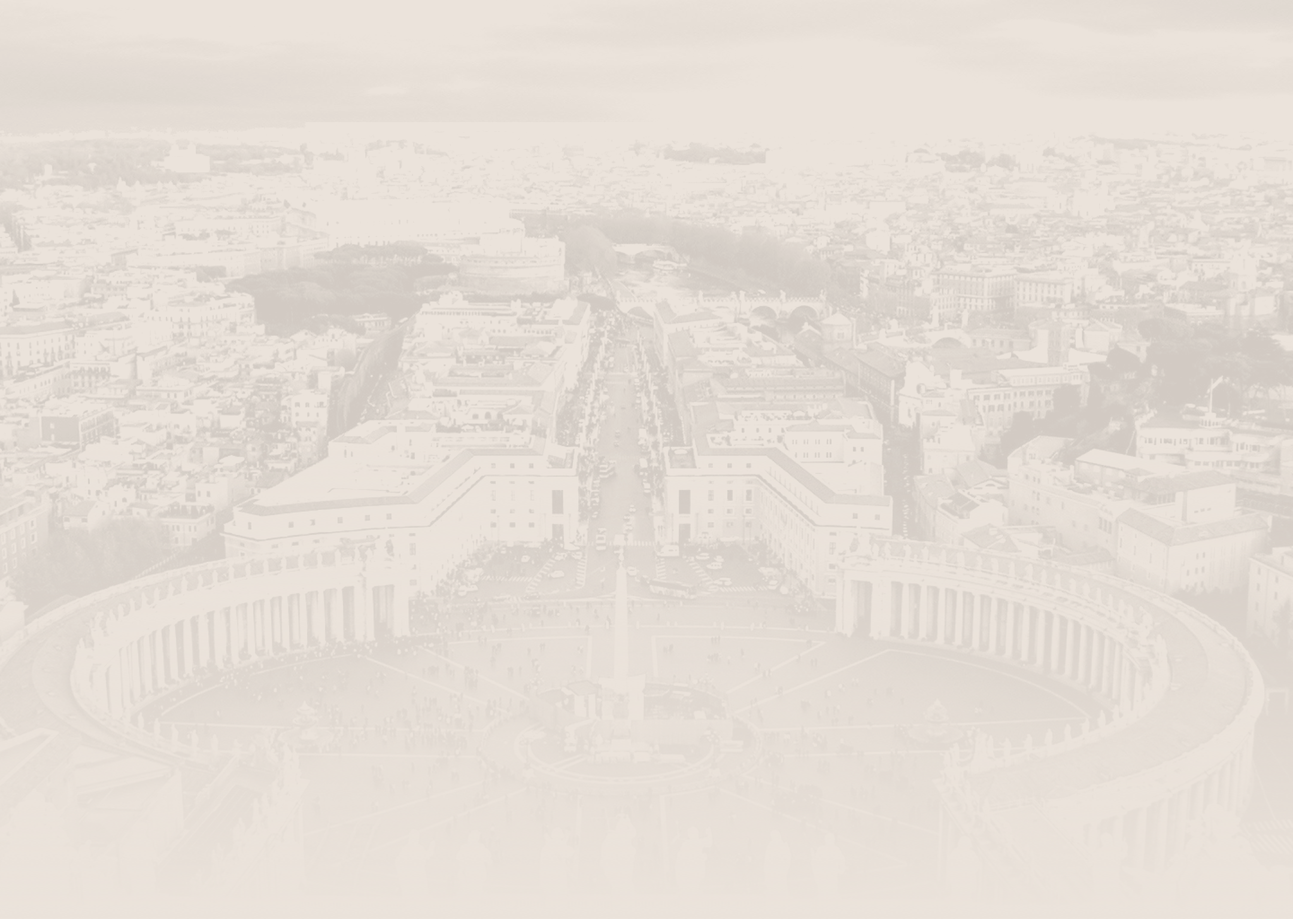
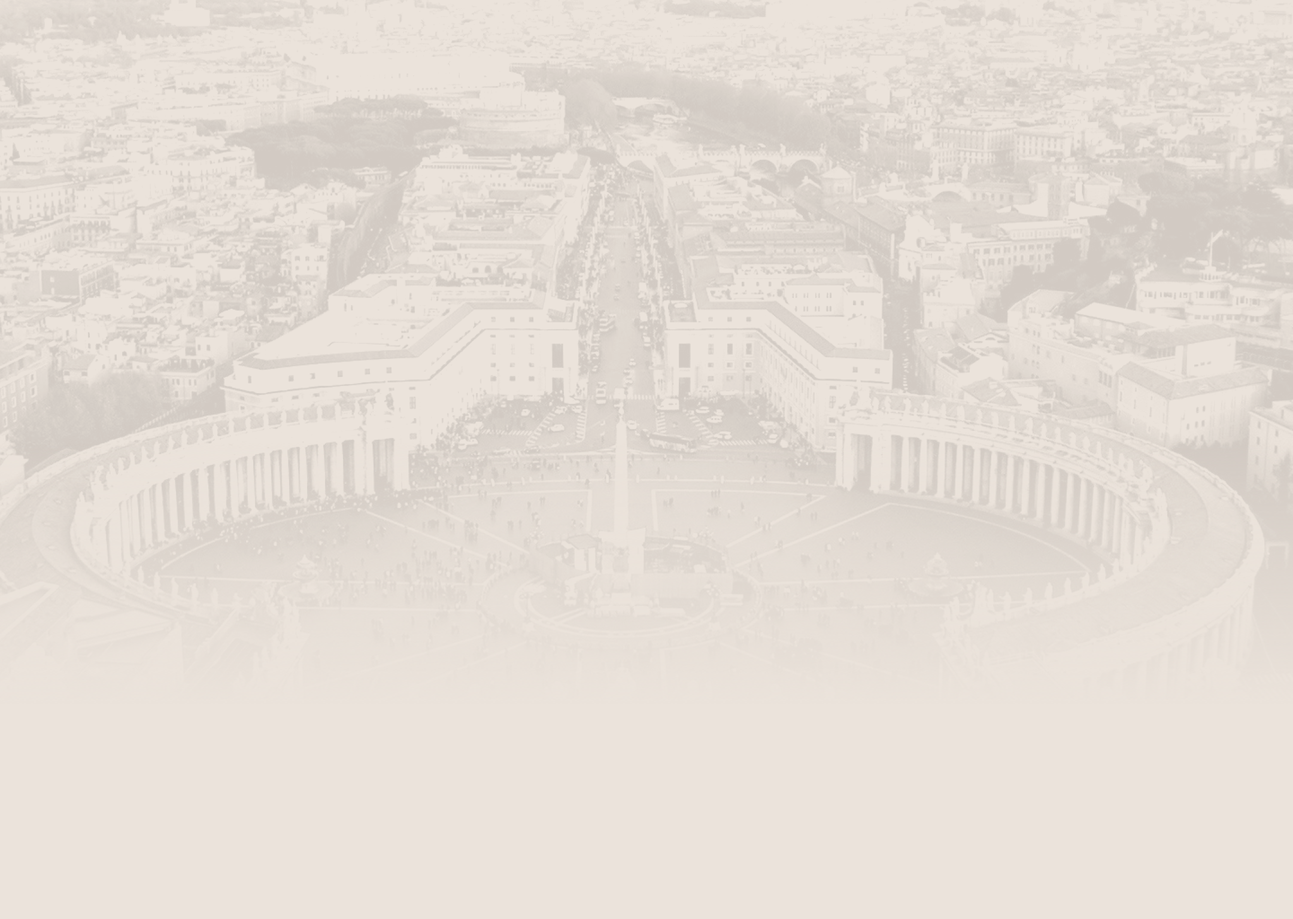
style about and far page

diff --git a/css/style.min.css b/css/style.min.css
@@ -1,3 +1,1 @@
-@import url("https://fonts.googleapis.com/css?family=Source+Sans+Pro:400,600,700");@import url("foundation.min.css");html{font-size:14px}body{font-family:"Source Sans Pro", sans-serif;font-size:100%;font-weight:400}p{margin:0px}section{display:block;clear:both;width:100%;float:left;position:relative}h1{font-size:3rem;font-family:"Georgia", serif;margin:0;font-weight:normal;line-height:1.3em}h2{font-family:"Source Sans Pro", sans-serif;font-size:2.5em;font-weight:700;line-height:1.3em;margin:0}h3{font-family:"Georgia", serif;font-size:1.5rem;font-weight:normal;margin:0;line-height:1.2em}h4{font-family:"Source Sans Pro", sans-serif;font-size:1.8rem;font-weight:400;margin:0;line-height:1.2em}h5{font-family:"Source Sans Pro", sans-serif;font-size:1.5rem;font-weight:400;margin:0;line-height:1.3em}h5 span{font-weight:600}span{font-weight:600}.direction-desktop,.direction-mobile{font-family:"Source Sans Pro", sans-serif;font-size:1.2rem;font-weight:400;margin:1rem 0 0 0;color:#353535}.direction-mobile{display:none}.row{max-width:95%;margin:auto}a{cursor:pointer}.btn{padding:.5em 1.3em;background-color:white;border-radius:0;display:inline-block;color:black;text-decoration:none;font-family:"Source Sans Pro", sans-serif;font-size:1.3rem;transition:all .3s ease}.btn span{margin-right:10px}.btn:hover{color:white}.btn:hover span{color:white}.btn.red span{color:#B3282D}.btn.red:hover{background-color:#B3282D}.btn.red:hover span{color:white}.btn.blue span{color:#00AEEF}.btn.blue:hover{background-color:#00AEEF}.btn.blue:hover span{color:white}hr{width:15%;border-color:#B3282D;margin-left:0px}.reveal .controls{display:none !important}.nav{position:absolute;z-index:50;width:100%;padding:2rem 2rem 0 2rem}.nav .logo{display:inline-block}.nav .logo img{max-width:60px}.nav .menu{display:inline-block;float:right}.nav .menu .about,.nav .menu .faqs,.nav .menu .apply-now{display:inline-block;font-family:"Source Sans Pro", sans-serif;font-weight:600;font-size:1.2rem;color:#353535;text-decoration:none;margin-right:30px;transition:color .3s ease}.nav .menu .about:hover,.nav .menu .faqs:hover,.nav .menu .apply-now:hover{color:#B3282D}.nav .menu .apply-now{display:none}.nav .menu .social{display:inline-block}.nav .menu .social a{background-color:white;padding:8px 10px;border-radius:50px;color:#353535;margin-right:5px;display:inline-block;transition:all .3s ease}.nav .menu .social a .fa-facebook{padding:0px 3px}.nav .menu .social a .fa-instagram{padding:0px 2px}.nav .menu .social a:hover{background-color:#0A7096;color:white}.nav .menu .btn{display:inline-block;background-color:#00AEEF;color:white;font-weight:600;margin-left:2rem}.nav .menu .btn:hover{background-color:#0A7096}.home{background-image:url(../img/pope.jpg);background-repeat:no-repeat;background-size:cover;height:800px}.home .row{padding-top:20%}.home h2{color:#353535}.home .inspire{color:#B3282D}.home .btn{margin-top:20px}.home .direction{margin-top:2rem}.focus-areas{height:800px}.focus-areas h1{color:#B3282D}.focus-areas .stat-tabs-wrapper{width:100%;float:left;overflow:hidden;display:block}.focus-areas .stat-tab-question{width:40%;float:right;padding:23rem 3rem 0 3rem;background-color:rgba(235,227,219,0.85);background-image:url(../img/corner-icon.png);background-position:bottom right;background-repeat:no-repeat;background-size:20%;min-height:800px}.focus-areas .label{font-size:18px;font-family:"Source Sans Pro", sans-serif;font-weight:600;text-transform:uppercase;color:#5A5A5A}.focus-areas .label span{color:#B3282D}.focus-areas .btn{display:inline-block;margin:2rem 0px 1rem 0}.focus-areas .stat-tabs-nav{position:absolute;top:16%;left:60%;margin-left:50px;z-index:1000000}.focus-areas .stat-tabs-nav .nav-row div{display:inline-block;margin-right:10px;width:4rem;height:4rem;background-color:rgba(255,255,255,0.8);border-radius:100px;background-size:55%;background-repeat:no-repeat;background-position:center;transition:all .3s ease}.focus-areas .stat-tabs-nav .nav-row div a{display:block;height:100%;width:100%}.focus-areas .stat-tabs-nav .nav-row div.active{background-color:white;border:3px solid #B3282D}.focus-areas #energy{background-image:url(../img/icon-energy.png)}.focus-areas #food{background-image:url(../img/icon-food.png)}.focus-areas #water{background-image:url(../img/icon-water.png)}.focus-areas #city{background-image:url(../img/icon-city.png)}.focus-areas #employment{background-image:url(../img/icon-employment.png)}.focus-areas #conservation{background-image:url(../img/icon-conservation.png)}.focus-areas #finance{background-image:url(../img/icon-finance.png)}.focus-areas .stat-tab{display:none;width:100%;height:100%;min-height:800px;overflow:hidden;float:left;background-size:cover;background-repeat:no-repeat}.focus-areas .stat-tab.active{display:block}.focus-areas .navigate-up,.focus-areas .navigate-down{display:none}.focus-areas .stat-tab-facts{position:absolute;top:40%;width:60%}.focus-areas .stat-tab-facts p{text-align:center;margin:auto;font-size:2rem;font-family:"Georgia", serif;font-weight:normal;line-height:1.3em;color:white}.focus-areas .stat-tab-facts p span{font-family:"Source Sans Pro", sans-serif;font-size:1.2rem;color:white;font-weight:600}.focus-areas #stat-tab-energy{background-image:url(../img/bg-energy.jpg)}.focus-areas #stat-tab-food{background-image:url(../img/bg-food.jpg)}.focus-areas #stat-tab-water{background-image:url(../img/bg-water.jpg)}.focus-areas #stat-tab-city{background-image:url(../img/bg-city.jpg)}.focus-areas #stat-tab-employment{background-image:url(../img/bg-employment.jpg)}.focus-areas #stat-tab-conservation{background-image:url(../img/bg-conservation.jpg)}.focus-areas #stat-tab-finance{background-image:url(../img/bg-finance.jpg)}.map{background-image:url(../img/bg-map.png);background-size:cover;background-repeat:no-repeat;height:800px}.map .row{padding-top:8rem}.map .map-intro-mobile{display:none}.map h5{font-weight:600;color:#B3282D}.map #journey-map{width:1024px;height:500px;margin:-130px auto 0 auto;display:inline-block}.map #journey-map text{color:#353535;font-weight:600 !important;display:block;font-size:1.3rem !important}.map #journey-map-mobile{display:none}.map .process-box{background-color:rgba(255,255,255,0.7);padding:1.2rem}.map .process-box div{display:none}.map .process-box div.active{display:block}.map .btn{margin-top:1rem}.network{background-image:url(../img/bg-network.png);background-size:cover;background-repeat:no-repeat;height:800px}.network .row{padding-top:8rem}.network h5{font-weight:600;color:#B3282D}.network hr{border:0px}.network h3{margin-top:1rem}.network .btn{margin-top:20px}.network .network-box{background-color:rgba(255,255,255,0.7);padding:2.5rem;margin-top:1.5rem}.network .network-graphic{padding-top:5rem;display:block;width:90%;margin:auto}.apply{background-image:url(../img/bg-apply.png);background-size:cover;background-repeat:no-repeat;text-align:center;height:800px}.apply .row{text-align:center;padding-top:10rem}.apply h1{color:white;margin:.3em 0}.apply .quote{font-family:"Georgia", serif;font-size:1.2rem;color:black;font-weight:bold;font-style:italic}.apply .btn{display:inline-block;margin:1rem;padding:.7rem 2rem;color:#B3282D;font-weight:600;font-size:1.4rem;text-transform:uppercase}.apply .btn:hover{color:white}.apply .btn:hover span{color:white}.apply hr{width:5%;margin:1rem auto;border-bottom:1px solid #B3282D}.apply h3{font-size:1.5rem}.apply .subscribe-box{width:70%;margin:2rem auto;padding:2rem;background-color:rgba(255,255,255,0.3)}.apply #mc_embed_signup{margin-top:20px}.apply #mc_embed_signup .mc-field-group{width:50%}.apply #mc_embed_signup .mc-field-group,.apply #mc_embed_signup .clear{display:inline-block;vertical-align:top}.apply #mc_embed_signup input{width:100%;display:inline-block;height:40px;padding-left:15px;border:none;outline:none;background-color:rgba(255,255,255,0.6);font-family:"Source Sans Pro"}.apply #mc_embed_signup input.btn{background-color:white;margin-top:0px !important;padding:10px 25px;font-family:"Source Sans Pro";cursor:pointer;font-size:1.2rem;color:black}.apply #mc_embed_signup input.btn:hover{background-color:#0A7096;color:white}.apply #mc_embed_signup div.mce_inline_error{background-color:transparent;color:black;text-align:left;font-family:"Source Sans Pro";font-weight:normal}#about hr{display:none}#about .about-canvas{background-image:url("../img/bg-about.png");background-size:cover;background-position:center;position:absolute;z-index:100;width:100%;height:100%}#about .about-canvas .row{max-width:100%;padding:2rem}#about .close{float:right}#about .close svg{width:40px;height:40px}#about .content{width:90%;margin:auto;color:white}#about .content .about{padding-right:80px}#about .content .team{padding-left:80px}#about .content h5{font-size:1.1rem;font-weight:600;color:black;margin-top:.5rem}#about .content a{color:white;text-decoration:none;font-size:1.2rem}#about .content ul{margin:0px;list-style-type:none;padding-left:0px}#about .content li{margin-bottom:5px}#about .content li p.title{color:black;line-height:1em}#about .content li span{font-weight:600}#about .content.row{padding:0}#faqs .faqs-canvas{background-image:url("../img/bg-faqs.png");background-size:cover;background-position:center;position:absolute;z-index:100;width:100%;height:100%}#faqs .faqs-canvas .row{max-width:100%;padding:2rem}#faqs .faqs-canvas .close{float:right}#faqs .faqs-canvas .close svg{width:40px;height:40px}#faqs .faqs-canvas .content ol{padding-left:18px}#faqs .faqs-canvas .content li{margin-bottom:20px}#faqs .faqs-canvas .content .one{padding-right:80px}#faqs .faqs-canvas .content .two{padding-left:80px}#faqs .faqs-canvas .content.row{padding:0}#journey-map-mobile{margin:0 auto;display:none;width:100%;height:175px}@media (max-width: 599px){.direction-mobile{display:block}.direction-desktop{display:none}html{font-size:12px}h1{font-size:1.5rem;line-height:1.2em}h2{font-size:1.7rem}h3{font-size:1.2rem}h4{font-size:1.5rem}h5{line-height:1.2em}.nav{padding-top:1rem}.nav .logo img{max-width:40px;max-height:40px}.nav .menu{padding-top:1rem}.nav .menu .btn{display:none}.nav .menu .apply-now{display:inline-block;color:#B3282D;font-weight:600}.nav .menu .apply-now,.nav .menu .about,.nav .menu .faqs{font-size:1rem;margin-right:1.3rem}.nav .menu .social{margin-right:0px}.nav .menu .social a{background-color:transparent;padding:0 0 .7rem 0}.nav .menu .social a:hover{color:#B3282D;background-color:transparent}.home{background-position:80%}.home .row{padding-top:65%}.focus-areas h1{font-size:2.4rem}.focus-areas .stat-tab-question{width:100%;padding:16rem 3rem 0 3rem}.focus-areas .stat-tab-facts{display:none}.focus-areas .stat-tabs-nav{left:0;margin-left:3rem}.map .row{padding-top:6rem;max-width:95%}.map h3{margin-bottom:.5rem}.map .map-intro{display:none}.map #journey-map{display:none}.map #journey-map-mobile{display:block}.map #journey-map-mobile text{font-size:1rem !important;font-weight:600 !important}.network .row{padding-top:6rem;max-width:95%}.network .network-graphic{display:none}.network h3{margin-top:.2rem}.network h5{font-size:1.3rem}.network .network-box{padding:.5rem}.apply .row{padding-top:5rem}.apply .quote{display:none}.apply h5{font-weight:600;font-size:1.1rem}.apply .subscribe-box{width:95%;padding:1rem}.apply .subscribe-box h5{font-size:1.1rem}.apply .to-faq,.apply .app-deadline{display:block}.apply .divider{display:none}.apply #mc_embed_signup{margin-top:10px}.apply #mc_embed_signup .mc-field-group{width:100%}.apply #mc_embed_signup .clear{width:100%;display:block;margin-top:.5rem}.apply #mc_embed_signup .clear input{text-align:left;margin:0;padding:0 0 0 15px}#about hr{display:block;border-bottom:1px solid white;border-top:0px;width:100%;margin:2rem 0}#about h1{font-size:1.8rem;margin-bottom:5px}#about .about-canvas .row{padding:0}#about .about-canvas .close{margin-top:15px}#about .about-canvas .close svg{width:30px;height:30px}#about .about-canvas .content{padding:0px;height:32rem;overflow:scroll}#about .about-canvas .content .about,#about .about-canvas .content .team{padding:0px}#faqs h1{font-size:1.8rem;margin-bottom:5px}#faqs .faqs-canvas .row{padding:0}#faqs .faqs-canvas .close{margin-top:15px}#faqs .faqs-canvas .close svg{width:30px;height:30px}#faqs .faqs-canvas .content{padding:0px;height:32rem;overflow:scroll}#faqs .faqs-canvas .content .one,#faqs .faqs-canvas .content .two{padding:0px}#faqs .faqs-canvas .content ol{padding-left:30px}}@media (min-width: 321px) and (max-width: 599px){html{font-size:14px}.home h1{font-size:1.7rem}.map h2{margin-bottom:1rem}.map .process-box{margin-top:1rem}.network .network-box{padding:1rem}#about .about-canvas .content,#faqs .faqs-canvas .content{height:36rem;margin-top:1rem}}
-
-/*# sourceMappingURL=style.min.css.map */
+@import url("https://fonts.googleapis.com/css?family=Source+Sans+Pro:400,600,700");@import url("foundation.min.css");html{font-size:14px}body{font-family:"Source Sans Pro", sans-serif;font-size:100%;font-weight:400}p{margin:0px}section{display:block;clear:both;width:100%;float:left;position:relative}h1{font-size:3rem;font-family:"Georgia", serif;margin:0;font-weight:normal;line-height:1.3em}h2{font-family:"Source Sans Pro", sans-serif;font-size:2.5em;font-weight:700;line-height:1.3em;margin:0}h3{font-family:"Georgia", serif;font-size:1.5rem;font-weight:normal;margin:0;line-height:1.2em}h4{font-family:"Source Sans Pro", sans-serif;font-size:1.8rem;font-weight:400;margin:0;line-height:1.2em}h5{font-family:"Source Sans Pro", sans-serif;font-size:1.5rem;font-weight:400;margin:0;line-height:1.3em}h5 span{font-weight:600}span{font-weight:600}.direction-desktop,.direction-mobile{font-family:"Source Sans Pro", sans-serif;font-size:1.2rem;font-weight:400;margin:1rem 0 0 0;color:#353535}.direction-mobile{display:none}.row{max-width:95%;margin:auto}a{cursor:pointer}.btn{padding:.5em 1.3em;background-color:white;border-radius:0;display:inline-block;color:black;text-decoration:none;font-family:"Source Sans Pro", sans-serif;font-size:1.3rem;transition:all .3s ease}.btn span{margin-right:10px}.btn:hover{color:white}.btn:hover span{color:white}.btn.red span{color:#B3282D}.btn.red:hover{background-color:#B3282D}.btn.red:hover span{color:white}.btn.blue span{color:#00AEEF}.btn.blue:hover{background-color:#00AEEF}.btn.blue:hover span{color:white}hr{width:15%;border-color:#B3282D;margin-left:0px}.reveal .controls{display:none !important}.nav{position:absolute;z-index:50;width:100%;padding:2rem 2rem 0 2rem}.nav .logo{display:inline-block}.nav .logo img{max-width:60px}.nav .menu{display:inline-block;float:right}.nav .menu .about,.nav .menu .faqs,.nav .menu .apply-now,.nav .menu .home-nav{display:inline-block;font-family:"Source Sans Pro", sans-serif;font-weight:600;font-size:1.2rem;color:#353535;text-decoration:none;margin-right:30px;transition:color .3s ease}.nav .menu .about:hover,.nav .menu .faqs:hover,.nav .menu .apply-now:hover,.nav .menu .home-nav:hover{color:#B3282D}.nav .menu .apply-now{display:none}.nav .menu .social{display:inline-block}.nav .menu .social a{background-color:white;padding:8px 10px;border-radius:50px;color:#353535;margin-right:5px;display:inline-block;transition:all .3s ease}.nav .menu .social a .fa-facebook{padding:0px 3px}.nav .menu .social a .fa-instagram{padding:0px 2px}.nav .menu .social a:hover{background-color:#0A7096;color:white}.nav .menu .btn{display:inline-block;background-color:#00AEEF;color:white;font-weight:600;margin-left:2rem}.nav .menu .btn:hover{background-color:#0A7096}.home{background-image:url(../img/pope.jpg);background-repeat:no-repeat;background-size:cover;height:800px}.home .row{padding-top:20%}.home h2{color:#353535}.home .inspire{color:#B3282D}.home .btn{margin-top:20px}.home .direction{margin-top:2rem}.focus-areas{height:800px}.focus-areas h1{color:#B3282D}.focus-areas .stat-tabs-wrapper{width:100%;float:left;overflow:hidden;display:block}.focus-areas .stat-tab-question{width:40%;float:right;padding:23rem 3rem 0 3rem;background-color:rgba(235,227,219,0.85);background-image:url(../img/corner-icon.png);background-position:bottom right;background-repeat:no-repeat;background-size:20%;min-height:800px}.focus-areas .label{font-size:18px;font-family:"Source Sans Pro", sans-serif;font-weight:600;text-transform:uppercase;color:#5A5A5A}.focus-areas .label span{color:#B3282D}.focus-areas .btn{display:inline-block;margin:2rem 0px 1rem 0}.focus-areas .stat-tabs-nav{position:absolute;top:16%;left:60%;margin-left:50px;z-index:1000000}.focus-areas .stat-tabs-nav .nav-row div{display:inline-block;margin-right:10px;width:4rem;height:4rem;background-color:rgba(255,255,255,0.8);border-radius:100px;background-size:55%;background-repeat:no-repeat;background-position:center;transition:all .3s ease}.focus-areas .stat-tabs-nav .nav-row div a{display:block;height:100%;width:100%}.focus-areas .stat-tabs-nav .nav-row div.active{background-color:white;border:3px solid #B3282D}.focus-areas #energy{background-image:url(../img/icon-energy.png)}.focus-areas #food{background-image:url(../img/icon-food.png)}.focus-areas #water{background-image:url(../img/icon-water.png)}.focus-areas #city{background-image:url(../img/icon-city.png)}.focus-areas #employment{background-image:url(../img/icon-employment.png)}.focus-areas #conservation{background-image:url(../img/icon-conservation.png)}.focus-areas #finance{background-image:url(../img/icon-finance.png)}.focus-areas .stat-tab{display:none;width:100%;height:100%;min-height:800px;overflow:hidden;float:left;background-size:cover;background-repeat:no-repeat}.focus-areas .stat-tab.active{display:block}.focus-areas .navigate-up,.focus-areas .navigate-down{display:none}.focus-areas .stat-tab-facts{position:absolute;top:40%;width:60%}.focus-areas .stat-tab-facts p{text-align:center;margin:auto;font-size:2rem;font-family:"Georgia", serif;font-weight:normal;line-height:1.3em;color:white}.focus-areas .stat-tab-facts p span{font-family:"Source Sans Pro", sans-serif;font-size:1.2rem;color:white;font-weight:600}.focus-areas #stat-tab-energy{background-image:url(../img/bg-energy.jpg)}.focus-areas #stat-tab-food{background-image:url(../img/bg-food.jpg)}.focus-areas #stat-tab-water{background-image:url(../img/bg-water.jpg)}.focus-areas #stat-tab-city{background-image:url(../img/bg-city.jpg)}.focus-areas #stat-tab-employment{background-image:url(../img/bg-employment.jpg)}.focus-areas #stat-tab-conservation{background-image:url(../img/bg-conservation.jpg)}.focus-areas #stat-tab-finance{background-image:url(../img/bg-finance.jpg)}.map{background-image:url(../img/bg-map.png);background-size:cover;background-repeat:no-repeat;height:800px}.map .row{padding-top:8rem}.map .map-intro-mobile{display:none}.map h5{font-weight:600;color:#B3282D}.map #journey-map{width:1024px;height:500px;margin:-130px auto 0 auto;display:inline-block}.map #journey-map text{color:#353535;font-weight:600 !important;display:block;font-size:1.3rem !important}.map #journey-map-mobile{display:none}.map .process-box{background-color:rgba(255,255,255,0.7);padding:1.2rem}.map .process-box div{display:none}.map .process-box div.active{display:block}.map .btn{margin-top:1rem}.network{background-image:url(../img/bg-network.png);background-size:cover;background-repeat:no-repeat;height:800px}.network .row{padding-top:3rem}.network h5{font-weight:600;color:#B3282D}.network hr{border:0px}.network h3{margin-top:1rem}.network .btn{margin-top:20px}.network .network-box{background-color:rgba(255,255,255,0.7);padding:2.5rem;margin-top:1.5rem}.network .network-graphic{padding-top:5rem;display:block;width:90%;margin:auto}.apply{background-image:url(../img/bg-apply.png);background-size:cover;background-repeat:no-repeat;text-align:center;height:800px}.apply .row{text-align:center;padding-top:10rem}.apply h1{color:white;margin:.3em 0}.apply .quote{font-family:"Georgia", serif;font-size:1.2rem;color:black;font-weight:bold;font-style:italic}.apply .btn{display:inline-block;margin:1rem;padding:.7rem 2rem;color:#B3282D;font-weight:600;font-size:1.4rem;text-transform:uppercase}.apply .btn:hover{color:white}.apply .btn:hover span{color:white}.apply hr{width:5%;margin:1rem auto;border-bottom:1px solid #B3282D}.apply h3{font-size:1.5rem}.apply .subscribe-box{width:70%;margin:2rem auto;padding:2rem;background-color:rgba(255,255,255,0.3)}.apply #mc_embed_signup{margin-top:20px}.apply #mc_embed_signup .mc-field-group{width:50%}.apply #mc_embed_signup .mc-field-group,.apply #mc_embed_signup .clear{display:inline-block;vertical-align:top}.apply #mc_embed_signup input{width:100%;display:inline-block;height:40px;padding-left:15px;border:none;outline:none;background-color:rgba(255,255,255,0.6);font-family:"Source Sans Pro"}.apply #mc_embed_signup input.btn{background-color:white;margin-top:0px !important;padding:10px 25px;font-family:"Source Sans Pro";cursor:pointer;font-size:1.2rem;color:black}.apply #mc_embed_signup input.btn:hover{background-color:#0A7096;color:white}.apply #mc_embed_signup div.mce_inline_error{background-color:transparent;color:black;text-align:left;font-family:"Source Sans Pro";font-weight:normal}#about hr{display:none}#about .about-canvas{background-image:url("../img/bg-about.png");background-size:cover;background-position:center;position:absolute}#about .about-canvas .row{max-width:100%;padding:8rem 2rem}#about .close{float:right}#about .close svg{width:40px;height:40px}#about .content{width:90%;margin:auto;color:white}#about .content .about{padding-right:80px}#about .content .team{padding-left:80px}#about .content h5{font-size:1.1rem;font-weight:600;color:black;margin-top:.5rem}#about .content a{color:white;text-decoration:none;font-size:1.2rem}#about .content ul{margin:0px;list-style-type:none;padding-left:0px}#about .content li{margin-bottom:5px}#about .content li p.title{color:black;line-height:1em}#about .content li span{font-weight:600}#about .content.row{padding:0}#faqs .faqs-canvas{background-image:url("../img/bg-faqs.png");background-size:cover;background-position:center;position:absolute}#faqs .faqs-canvas .row{max-width:100%;padding:8rem 4em}#faqs .faqs-canvas .close{float:right}#faqs .faqs-canvas .close svg{width:40px;height:40px}#faqs .faqs-canvas .content ol{padding-left:18px}#faqs .faqs-canvas .content li{margin-bottom:20px}#faqs .faqs-canvas .content .one{padding-right:80px}#faqs .faqs-canvas .content .two{padding-left:80px}#faqs .faqs-canvas .content.row{padding:0}#journey-map-mobile{margin:0 auto;display:none;width:100%;height:175px}@media (max-width: 599px){.direction-mobile{display:block}.direction-desktop{display:none}html{font-size:12px}h1{font-size:1.5rem;line-height:1.2em}h2{font-size:1.7rem}h3{font-size:1.2rem}h4{font-size:1.5rem}h5{line-height:1.2em}.nav{padding-top:1rem}.nav .logo img{max-width:40px;max-height:40px}.nav .menu{padding-top:1rem}.nav .menu .btn{display:none}.nav .menu .apply-now{display:inline-block;color:#B3282D;font-weight:600}.nav .menu .apply-now,.nav .menu .about,.nav .menu .faqs{font-size:1rem;margin-right:1.3rem}.nav .menu .social{margin-right:0px}.nav .menu .social a{background-color:transparent;padding:0 0 .7rem 0}.nav .menu .social a:hover{color:#B3282D;background-color:transparent}.home{background-position:80%}.home .row{padding-top:65%}.focus-areas h1{font-size:2.4rem}.focus-areas .stat-tab-question{width:100%;padding:16rem 3rem 0 3rem}.focus-areas .stat-tab-facts{display:none}.focus-areas .stat-tabs-nav{left:0;margin-left:3rem}.map .row{padding-top:6rem;max-width:95%}.map h3{margin-bottom:.5rem}.map .map-intro{display:none}.map #journey-map{display:none}.map #journey-map-mobile{display:block}.map #journey-map-mobile text{font-size:1rem !important;font-weight:600 !important}.network .row{padding-top:6rem;max-width:95%}.network .network-graphic{display:none}.network h3{margin-top:.2rem}.network h5{font-size:1.3rem}.network .network-box{padding:.5rem}.apply .row{padding-top:5rem}.apply .quote{display:none}.apply h5{font-weight:600;font-size:1.1rem}.apply .subscribe-box{width:95%;padding:1rem}.apply .subscribe-box h5{font-size:1.1rem}.apply .to-faq,.apply .app-deadline{display:block}.apply .divider{display:none}.apply #mc_embed_signup{margin-top:10px}.apply #mc_embed_signup .mc-field-group{width:100%}.apply #mc_embed_signup .clear{width:100%;display:block;margin-top:.5rem}.apply #mc_embed_signup .clear input{text-align:left;margin:0;padding:0 0 0 15px}#about hr{display:block;border-bottom:1px solid white;border-top:0px;width:100%;margin:2rem 0}#about h1{font-size:1.8rem;margin-bottom:5px}#about .about-canvas .row{padding:0}#about .about-canvas .close{margin-top:15px}#about .about-canvas .close svg{width:30px;height:30px}#about .about-canvas .content{padding:0px;height:32rem;overflow:scroll}#about .about-canvas .content .about,#about .about-canvas .content .team{padding:0px}#faqs h1{font-size:1.8rem;margin-bottom:5px}#faqs .faqs-canvas .row{padding:0}#faqs .faqs-canvas .close{margin-top:15px}#faqs .faqs-canvas .close svg{width:30px;height:30px}#faqs .faqs-canvas .content{padding:0px;height:32rem;overflow:scroll}#faqs .faqs-canvas .content .one,#faqs .faqs-canvas .content .two{padding:0px}#faqs .faqs-canvas .content ol{padding-left:30px}}@media (min-width: 321px) and (max-width: 599px){html{font-size:14px}.home h1{font-size:1.7rem}.map h2{margin-bottom:1rem}.map .process-box{margin-top:1rem}.network .network-box{padding:1rem}#about .about-canvas .content,#faqs .faqs-canvas .content{height:36rem;margin-top:1rem}}

diff --git a/about.html b/about.html
@@ -32,6 +32,7 @@
         <img src="img/logo.png" />
       </div>
       <div class="menu">
+        <a class="home-nav" href="/">Home</a>
         <a class="about" href="/about">About</a>
         <a class="faqs" href="/faqs">FAQs</a>
         <div class="social">
@@ -45,20 +46,6 @@
 
     <div class="about-canvas">
       <div class="row">
-        <div class="small-12 column">
-          <a class="close" onclick="goBack()">
-            <svg viewbox="0 0 60 60" version="1.1">
-						    <g stroke="none" stroke-width="1" fill="none" fill-rule="evenodd" stroke-linecap="square">
-						        <g transform="translate(-1313.000000, -57.000000)" stroke="#FFFFFF" stroke-width="3">
-						            <g transform="translate(1343.154329, 87.154329) rotate(-315.000000) translate(-1343.154329, -87.154329) translate(1304.154329, 48.154329)">
-						                <path d="M39,0.5 L39,77.4220385"></path>
-						                <path d="M77.5,39 L0.577961545,39"></path>
-						            </g>
-						        </g>
-						    </g>
-						</svg>
-          </a>
-        </div>
         <div class="small-12 column">
           <div class="content row">
             <div class="small-12 medium-6 column about">

diff --git a/css/style.scss b/css/style.scss
@@ -171,7 +171,8 @@ hr {
     float: right;
     .about,
     .faqs,
-    .apply-now {
+    .apply-now,
+    .home-nav {
       display: inline-block;
       font-family: "Source Sans Pro", sans-serif;
       font-weight: 600;
@@ -447,7 +448,7 @@ hr {
   background-repeat: no-repeat;
   height:800px;
   .row {
-    padding-top: 8rem;
+    padding-top: 3rem;
   }
   h5 {
     font-weight: 600;
@@ -577,15 +578,12 @@ hr {
   .about-canvas {
     .row {
       max-width: 100%;
-      padding: 2rem;
+      padding: 8rem 2rem;
     }
     background-image: url("../img/bg-about.png");
     background-size: cover;
     background-position: center;
     position: absolute;
-    z-index: 100;
-    width: 100%;
-    height: 100%;
   }
   .close {
     float: right;
@@ -643,15 +641,12 @@ hr {
   .faqs-canvas {
     .row {
       max-width: 100%;
-      padding: 2rem;
+      padding: 8rem 4em;
     }
     background-image: url("../img/bg-faqs.png");
     background-size: cover;
     background-position: center;
     position: absolute;
-    z-index: 100;
-    width: 100%;
-    height: 100%;
     .close {
       float: right;
       svg {

diff --git a/faqs.html b/faqs.html
@@ -46,20 +46,6 @@
     <div class="faqs-canvas">
       <div class="row">
         <div class="small-12 column">
-          <a class="close" onclick="goBack()">
-            <svg viewbox="0 0 60 60" version="1.1">
-						    <g stroke="none" stroke-width="1" fill="none" fill-rule="evenodd" stroke-linecap="square">
-						        <g transform="translate(-1313.000000, -57.000000)" stroke="#000000" stroke-width="3">
-						            <g transform="translate(1343.154329, 87.154329) rotate(-315.000000) translate(-1343.154329, -87.154329) translate(1304.154329, 48.154329)">
-						                <path d="M39,0.5 L39,77.4220385"></path>
-						                <path d="M77.5,39 L0.577961545,39"></path>
-						            </g>
-						        </g>
-						    </g>
-						</svg>
-          </a>
-        </div>
-        <div class="small-12 column">
           <div class="content row">
             <div class="small-12 medium-12 column">
               <h1>FAQs</h1>

diff --git a/index.html b/index.html
@@ -231,7 +231,7 @@
       <!-- #3 MAP SLIDE -->
       <section class="map">
         <div class="row">
-          <div class="small-12 medium-5 column">
+          <div class="small-12 medium-5 medium-offset-1 column">
             <!-- ADAM NEED TO  REWRITE THIS -->
             <h3 class="map-intro">Companies selected for the Laudato Si' Challenge will be pushed beyond their limits to compete for multiple rounds of funding.</h3>
             <h2>A glimpse of the journey</h2>
@@ -251,7 +251,7 @@
               </svg>
             </div>
           </div>
-          <div class="small-12 medium-5 medium-offset-7">
+          <div class="small-12 medium-5 medium-offset-6">
             <div class="process-box">
               <div id="apply-box" class="active">
                 <h5>Application Opens</h5>
